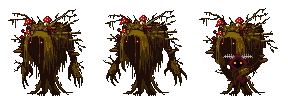
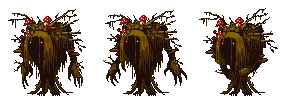
marko attack animation v1

Changed region(s): [[0.7812, 0.5625, 0.875, 0.75], [0.7812, 0.7812, 0.875, 0.9062]]

diff --git a/mobs/Chaser.cs b/mobs/Chaser.cs
@@ -31,6 +31,7 @@ public partial class Chaser : RigidBody2D {
 
 	private RayCast2D? lineOfSight;
 	private Player? player;
+	private bool isAttacking;
 
 	public override void _Ready() {
 		sightCone = GetNode<Node2D>("SightCone");
@@ -47,6 +48,10 @@ public partial class Chaser : RigidBody2D {
 
 	public override void _PhysicsProcess(double _delta) {
 		var delta = (float)_delta;
+
+		if (isAttacking) {
+			return;
+		}
 
 		var seesPlayer = raycastToPlayer();
 		if (seesPlayer) {
@@ -272,5 +277,27 @@ public partial class Chaser : RigidBody2D {
 		clearMovementTarget();
 
 		aiState = new IdleState();
+	}
+
+	public void enteredKillZone(Node2D node) {
+		if (node is Player player) {
+			attackPlayer(player);
+		}
+	}
+
+	private void attackPlayer(Player player) {
+		isAttacking = true;
+		player.setSpriteVisible(false);
+		player.setMovementEnabled(false);
+		AnimPlayer!.Play("attack");
+	}
+
+	private void killPlayer() {
+		var playerRef = GetTree().GetFirstNodeInGroup("Player");
+		if (playerRef is not Player player) {
+			return;
+		}
+
+		player.die();
 	}
 }
